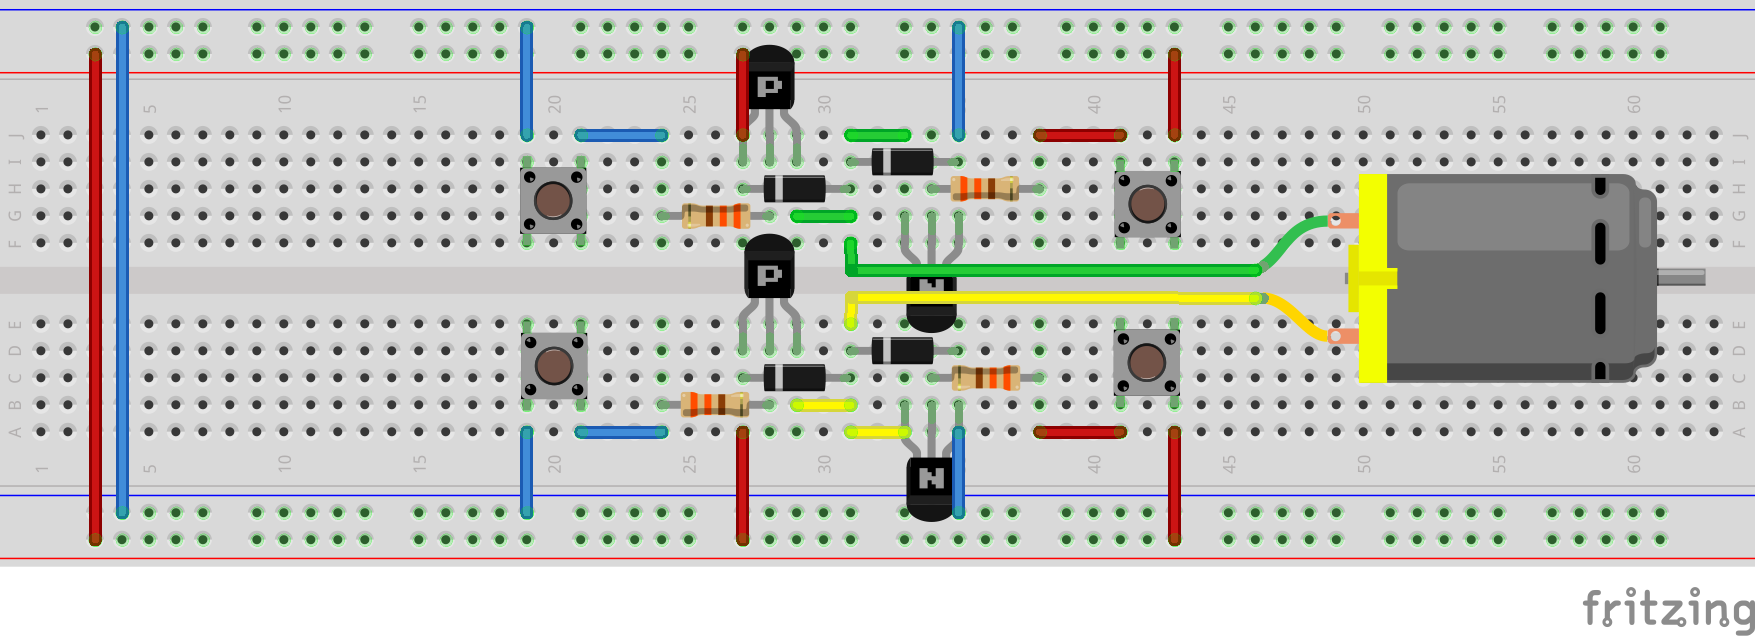
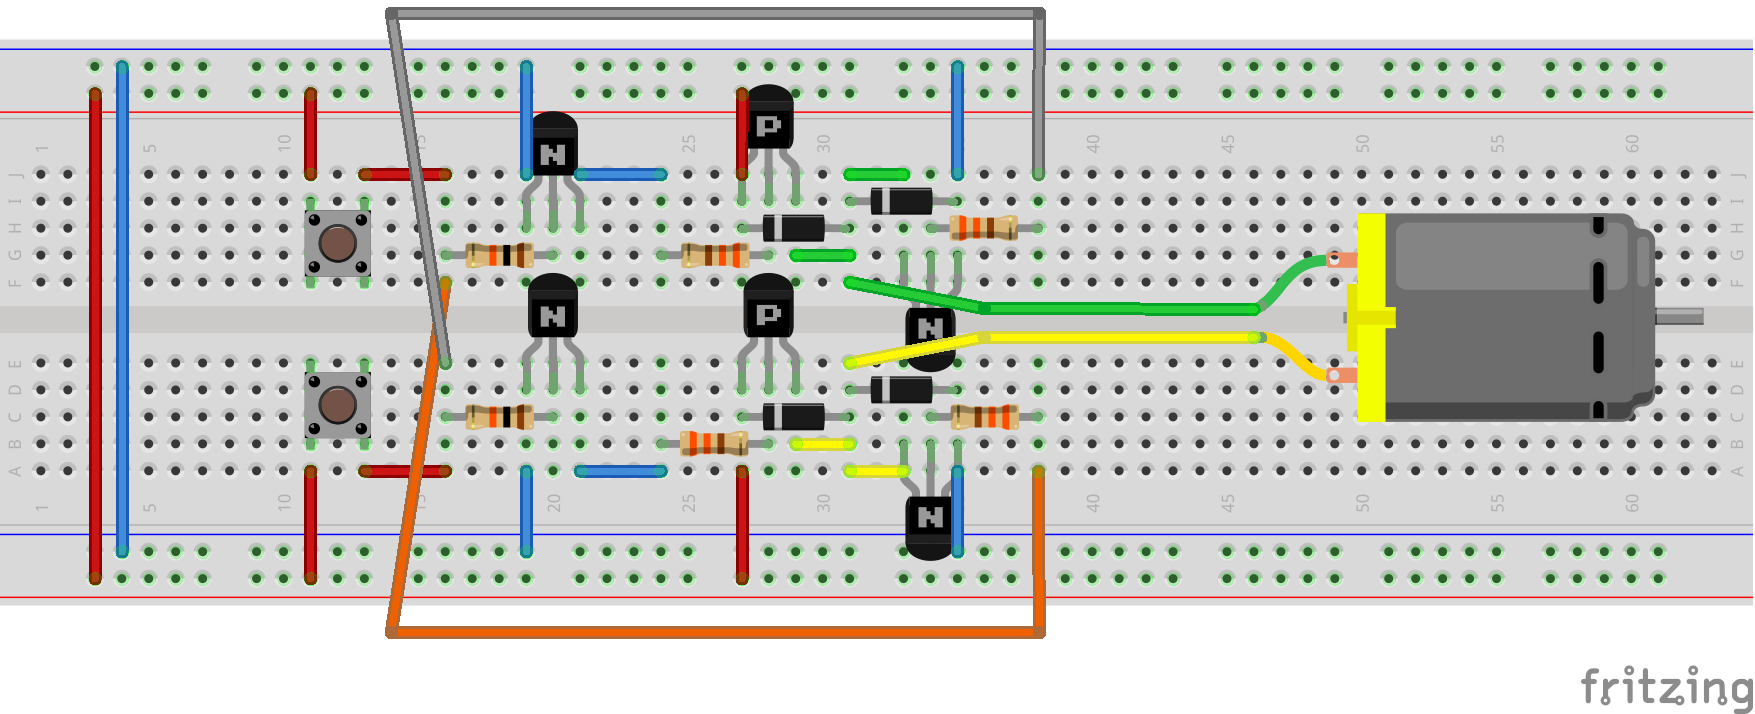
h-bridge writeup done

diff --git a/h-bridge/README.md b/h-bridge/README.md
@@ -43,23 +43,23 @@ While we could build an h-bridge with our push-buttons, we will not. Why? Ideall
 ### step 1 - control a motor with a PNP transistor
 To start, we will use a single PNP transistor (2N3906) as a high-side switch to control a motor. This way, we can figure out what value resistors we need to bias our transistors to saturation. Don't remember what transistor biasing is all about? Try reviewing the [transistor material](../transistors).
 
-Our load (as I mentioned a second ago) is 100 mA. First, we go to our [transistor's data sheet][2N3906] and look up it's characteristics at a collector current of 100mA.
+Our load (as I mentioned a second ago) is 100 mA. Let's go to our [transistor's data sheet][2N3906] and look up its characteristics with a collector current of 100mA.
 
 ![2N3906 on characteristics](images/2n3906-on.png "no pain no gain")
 
-From this table, with I_C = 100mA (the datasheet says -100mA because in a PNP transitor, current flows out of the collector), we see that the minimum gain is going to be 30. So **we will use h_FE = 30** in our calculations.
+From this table, with i_C = 100mA (the datasheet says -100mA because in a PNP transitor, current flows out of the collector), we see that the minimum gain is going to be 30. So **we will use h_FE = 30** in our calculations.
 
-We aslo can see that as IC gets higher, so does the saturation voltage drop from the emitter to the base. Looking at this table (and at the graph on the third page relating V_BE,sat to i_C), **we will use V_BE,sat = 1.0V** in our calculations.
+We also can see that as i_C gets higher, so does the saturation voltage drop from the emitter to the base. Looking at this table (and at the graph on the third page relating V_BE(sat) to i_C, **we will use V_BE,sat = 1.0V** in our calculations.
 
 ![transistor biasing](images/transistor-bias-1.png)
 
 Using a gain of 30 and a load current of 100mA, we need a base current of 100mA/30 = 3.3mA. To ensure saturation, we will bump that up to **i_B = 5mA**.
 
-Ignoring the existence of R2 for a moment, our base current is going to be equal to the current going through R1. To find the proper value of R1, we need to find the value of v1. v1 = 5V - v_BE,sat, so **v1 = 4.0V**. If we want i_1 to equal 5mA, and v_1 = 4.0V, using Ohm's law we find that **R1 needs to be less than or equal to 800Ω**. The closest resistor we have that is less than 800Ω is 330Ω, so let's use **R1 = 330Ω**.
+Ignoring the existence of R2 for a moment, our base current is going to be equal to the current going through R1. To find the proper value of R1, we need to find the value of v1. v1 = 5V - v_BE(sat), so **v1 = 4.0V**. If we want i_1 to equal 5mA, and v_1 = 4.0V, using Ohm's law we find that **R1 needs to be less than or equal to 800Ω**. The closest resistor we have that is less than 800Ω is 330Ω, so let's use **R1 = 330Ω**.
 
 Now, acknowledging that R2 exists (as a safety precaution; it pulls the transistor to off by default), let's use our biasing rule of thumb and select a value that is 10 times R1. So **R2 = 3.3kΩ**. Since the voltage drop across R2 is equal to v_BE,sat, we know that the i_R2 is going to equal 1.0V/3.3kΩ when the switch is down. This gives us **i_R2 = 0.3mA**. Knowing that i_R1 will be equal to i_B + i_R2 (Kirchhoff's Current Law), and **i_R1 = 4.0V/330Ω = 12.1mA**, we can back out that **i_B = i_R1-i_R2 = 11.8mA**. This is plenty of current to saturate the transistor.
 
-Now, we're also going to **add a protection diode to the transistor** to protect the it from voltage spikes from sudden changes in supply current to the motor. For extra breadboard room, **we're also going to ditch R2** (even after all those calculations). So, this gives us:
+Now, we're also going to **add a protection diode to the transistor** to protect the it from voltage spikes from sudden changes in supply current to the motor. For extra breadboard room, **we're also going to ditch R2** (even after all those calculations). It's a good idea to have R2, but it's not necessary, so we'll be fine. This gives us:
 
 #### circuit hb 1
 [example breadboard layout][hb_1_bb]
@@ -97,6 +97,48 @@ Compare this to the schematic from the beginning with just switches:
 
 Looking back at our original truth table: pushing down S1 and S4 will make the motor turn one way, and pushing down S2 and S3 will make it turn the other way. **DO NOT PRESS S1 AND S2 AT THE SAME TIME. DO NOT PRESS S3 AND S4 AT THE SAME TIME**. This will cause a shoot through and possibly ruin your transistors.
 
+## making the h-bridge easier
+Having four switches to control an h-bridge isn't super convenient. Is there any way we could use just two switches?
+
+Yes there is.
+
+### step 4 - add an NPN to the high side switches
+To make the motor move in either direction, we need to activate a PNP and an NPN transistor. Unfortunately, to turn a PNP on, we need to pull the base lower than the emitter, while to turn an NPN on, we need to pull the base higher than the emitter. Current needs to flow out of the base for a PNP, and into the base for an NPN. If only we could use an NPN for those high side switches, we could tie the bases together and use one switch.
+
+Unfortunately, NPNs do not function well as high-side switches. This leaves us wanting to control the high-side switch with an NPN for logic reasons, but needing the load switch to be a PNP for electrical reasons. What's the solution?
+
+We can control the PNP with an NPN. Let's try adapting circuit hb 1:
+
+#### circuit hb 1
+
+![circuit hb 1][hb_1_schem]
+
+When we push down S1, we allow current to flow into Q1's emitter and out of the base, activating the emitter to collector junction. We know from our previous calculations that i_R1 is going to be about 12mA. So let's replace S1 with a NPN transistor that will allow more than 12mA:
+
+#### circuit hb 1 modified
+
+[example breadboard layout][hb_1_bb]
+
+You don't need to build this one; in fact, please avoid tearing up your existing h-bridge.
+
+![modified circuit hb 1][hb_1_modified_schem]
+
+Notice the 10kΩ resistor on the base of the NPN transistor. Is this going to work? Use the 2N3904 datasheet and see if you can solve for the currents.
+
+Now, if we apply these modifications to our full h-bridge:
+
+#### circuit hb final
+
+[example breadboard layout][hb_final_bb]
+
+![final h-bridge][hb_final_schem]
+
+Now, pressing one button should turn the motor one way, and the other button should turn the motor the other way. **DO NOT PRESS BOTH BUTTONS AT ONCE**.
+
+## h-bridges are done
+Congratulations! You've built an h-bridge. If you ever find yourself needing an h-bridge in the future, I would highly recommend buying a dedicated h-bridge integrated circuit. But hey, now if you can't / don't want to do that, you also know how to build one with discreet components. Awesome.
+
+
 [hbridge_wikipedia]: images/hbridge_wikipedia.png "h-bridge theory"
 [2N3906]: https://www.fairchildsemi.com/ds/2N/2N3906.pdf "2N3906 datasheet"
 [hb_1_bb]: breaboard/hb_1_bb.png
@@ -105,3 +147,7 @@ Looking back at our original truth table: pushing down S1 and S4 will make the m
 [hb_2_schem]: hb_2_schem.png
 [hb_3_bb]: breadboard/hb_3_bb.png
 [hb_3_schem]: hb_3_schem.png
+[hb_1_modified_bb]: breadboard/hb_1_modified_bb.png
+[hb_1_modified_schem]: hb_1_modified_schem.png
+[hb_final_bb]: breadboard/hb_final_bb.png
+[hb_final_schem]: hb_final_schem.png
